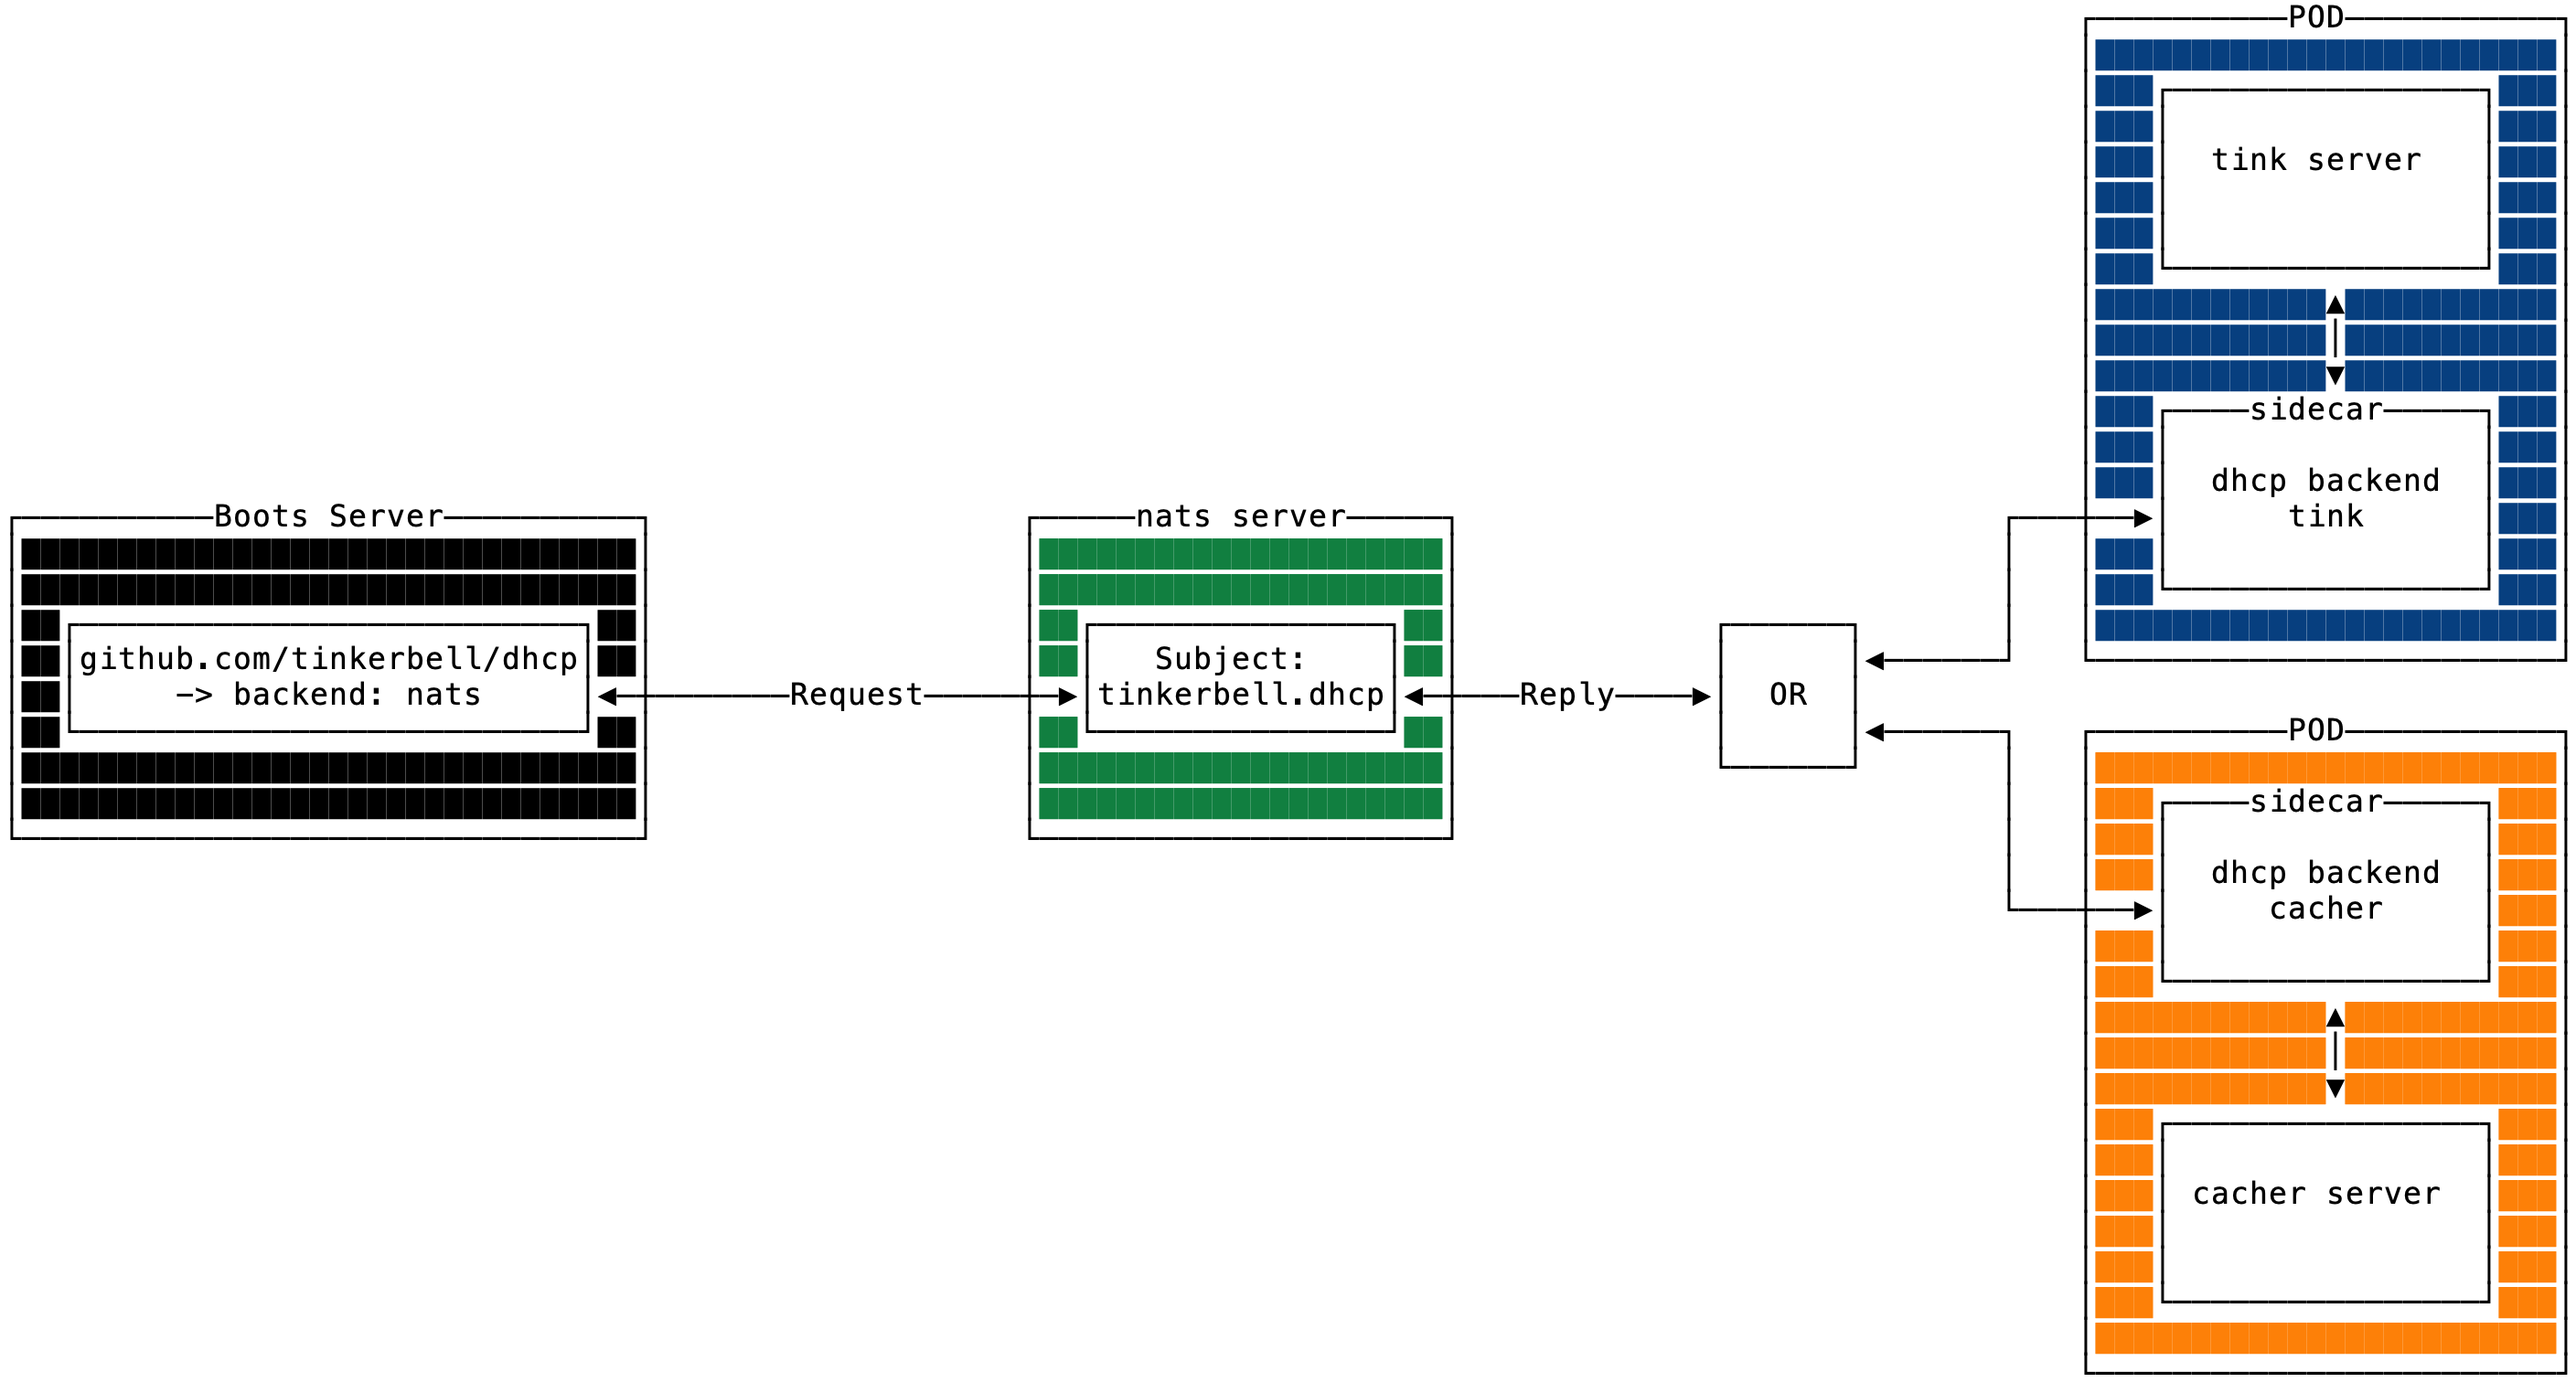
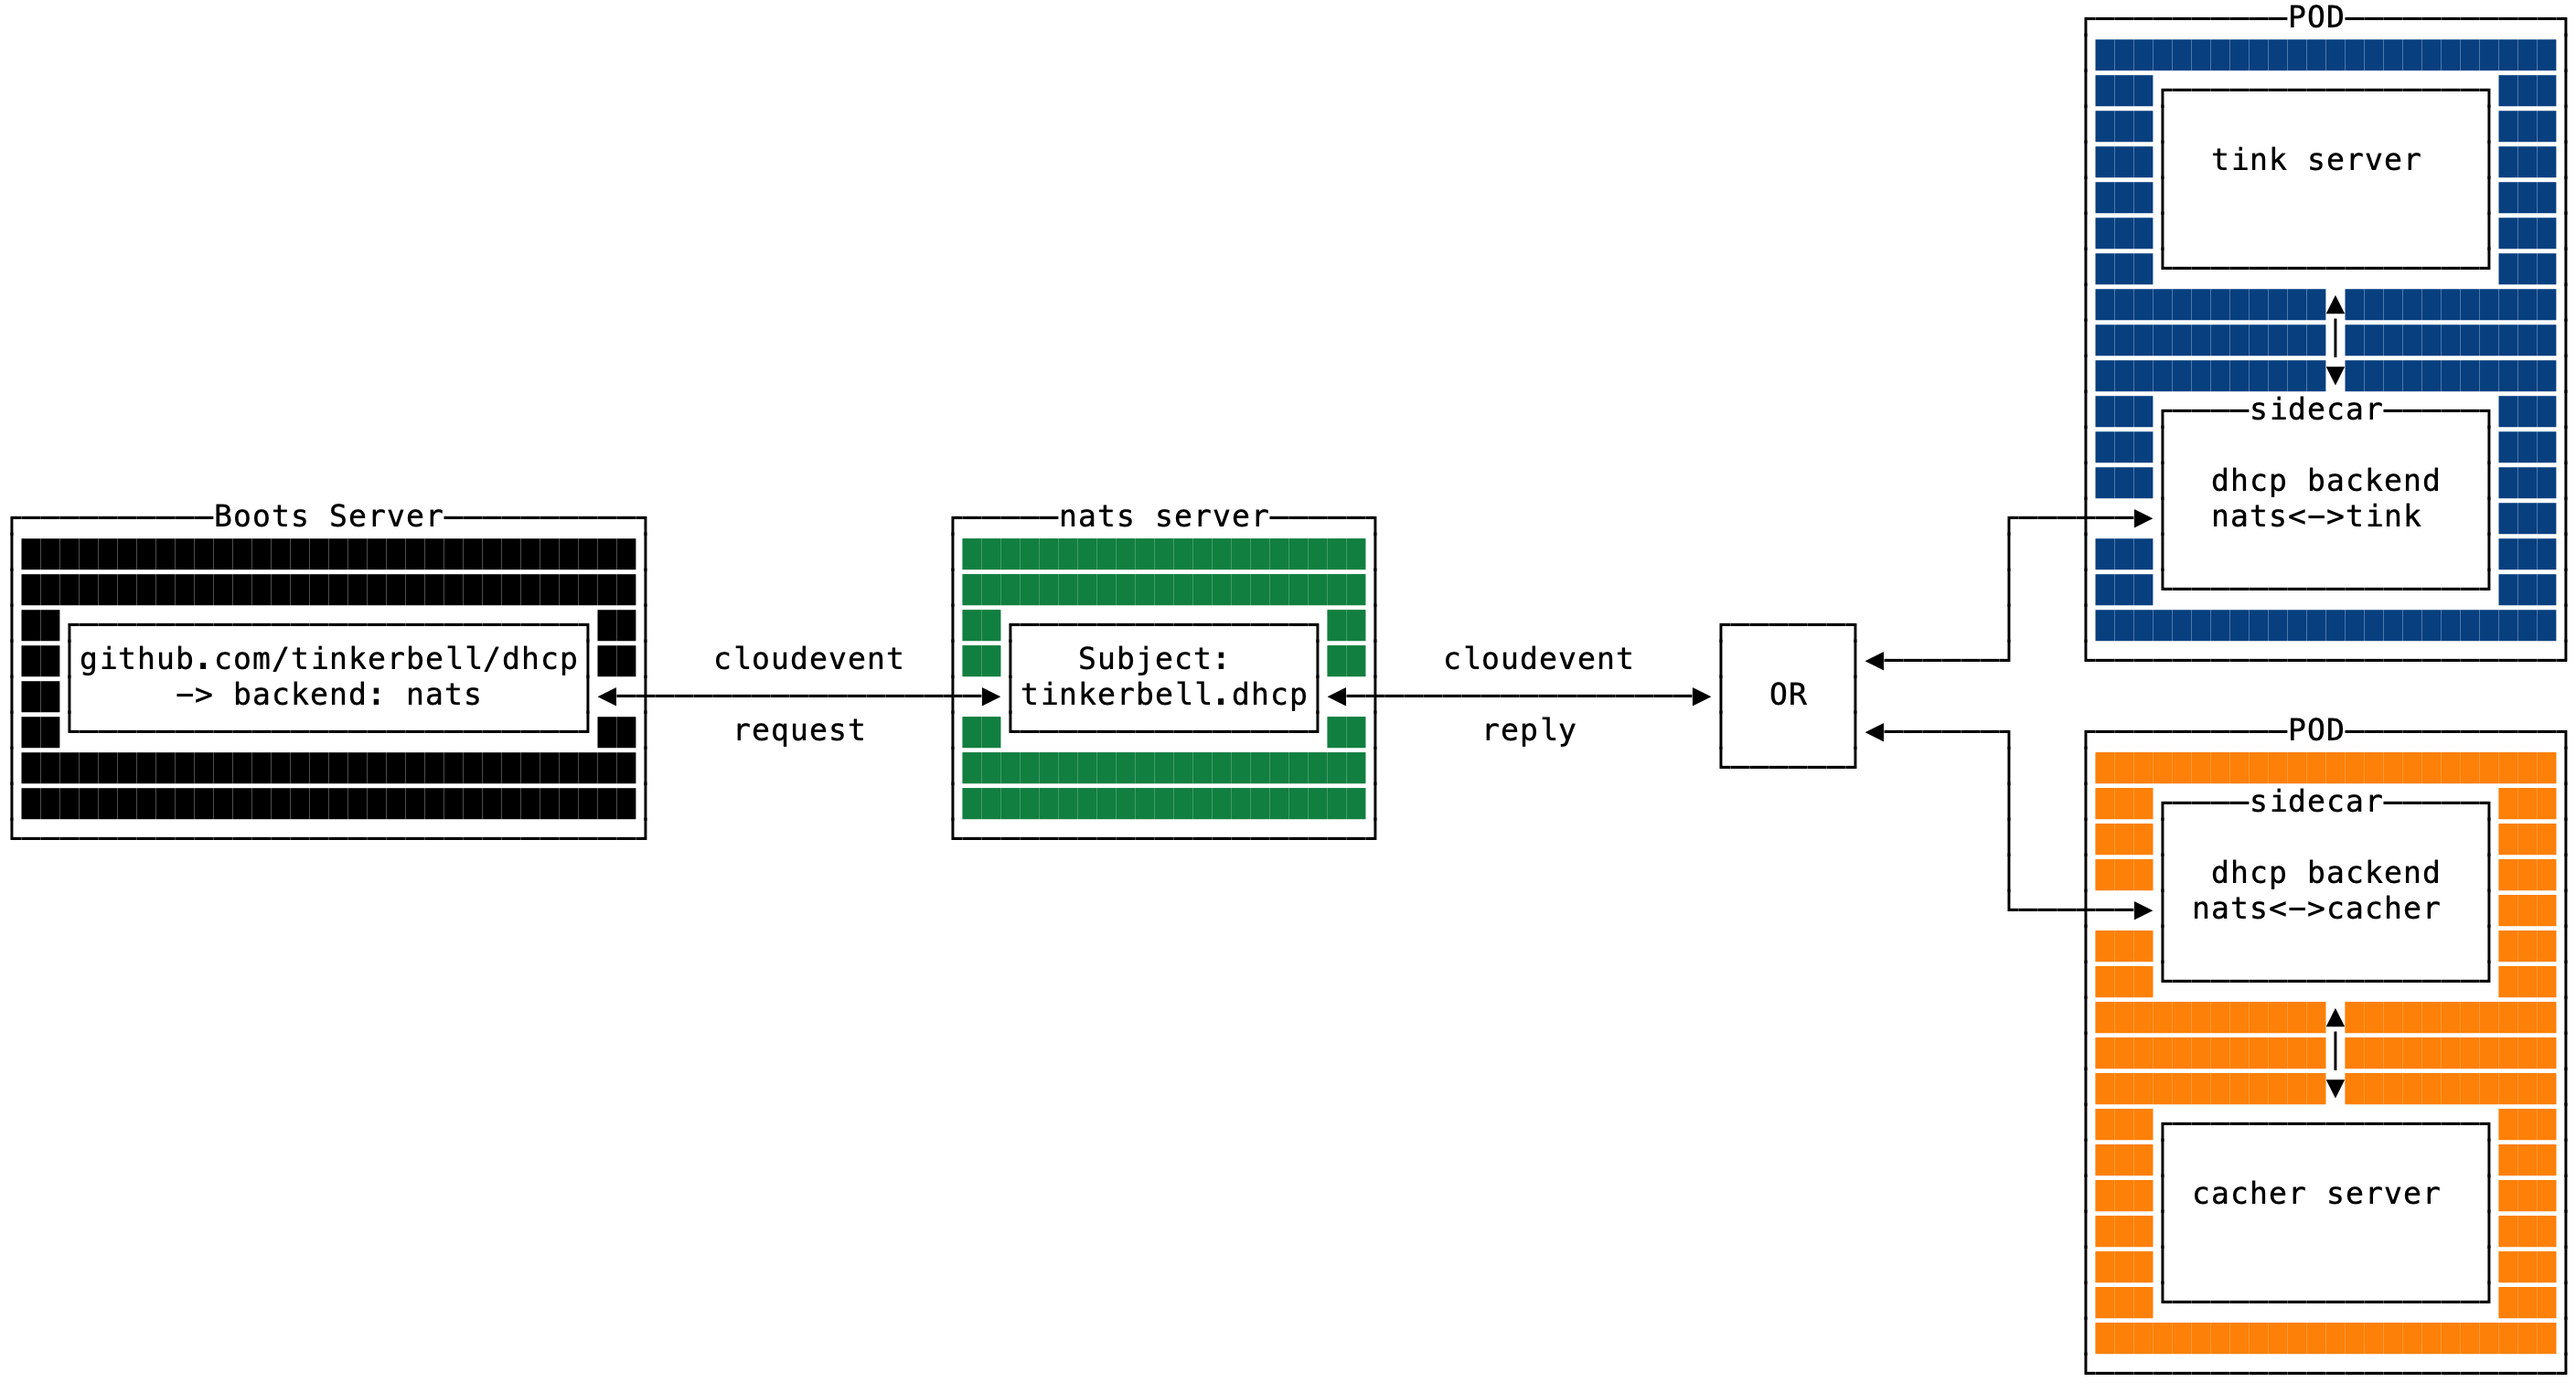
Add nats backend readme

Changed region(s): [[0.2812, 0.3701, 0.6248, 0.6168], [0.8435, 0.6476, 0.9372, 0.6785], [0.8747, 0.3701, 0.9372, 0.4009]]

diff --git a/backend/nats/README.md b/backend/nats/README.md
@@ -1,0 +1,11 @@
+# nats.io
+
+This backend implementation is for communicating messages via a nats subject.
+This backend uses the [Request-Reply pattern](https://docs.nats.io/nats-concepts/core-nats/reqreply).
+
+This backend allows the development and use of out-of-tree backends.
+This will allow legacy backends like [cacher](https://github.com/tinkerbell/boots/blob/ac346cb685046d05ba5296dd0b2083b64fef3287/packet/client.go#L96) to be deprecated from this and other code bases (Boots for example).
+
+## Architecture
+
+![arch-diagram](dhcp-backend-nats.png)
